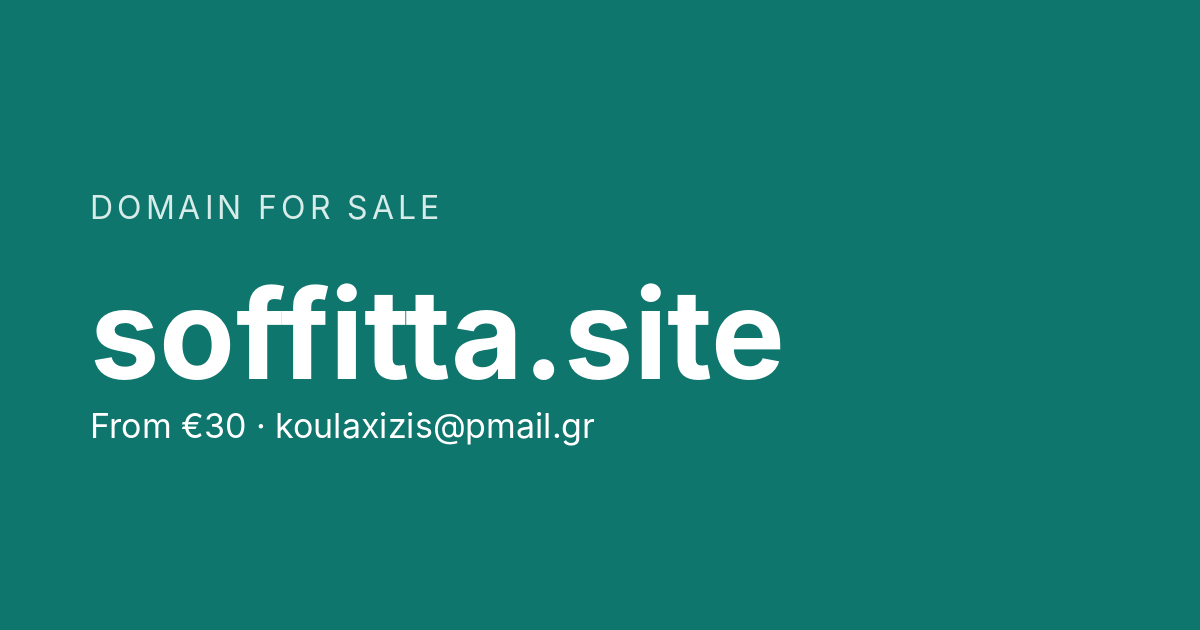
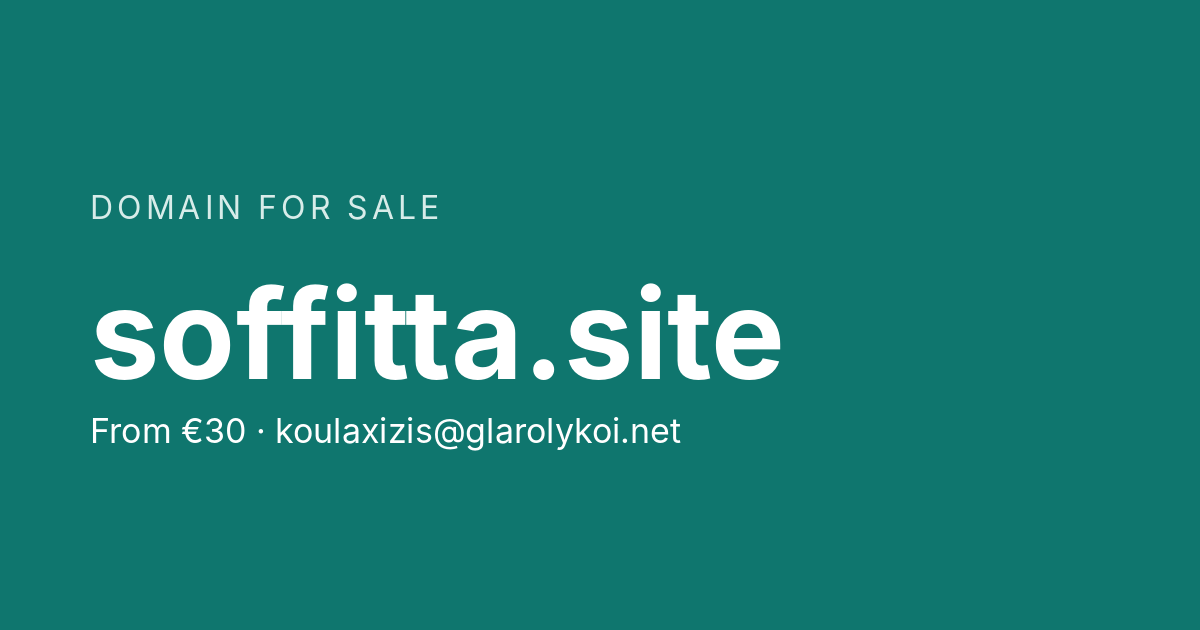
Change sale contact email to koulaxizis@glarolykoi.net
Updates the page, JSON-LD, meta descriptions, llms.txt, README and the
Open Graph image.

Claude-Session: https://claude.ai/code/session_01AxSeLTKH5xeV9SgQuvXc4s

Changed region(s): [[0.0617, 0.6333, 0.5858, 0.7238]]

diff --git a/index.html b/index.html
@@ -4,7 +4,7 @@
 <meta charset="UTF-8">
 <meta name="viewport" content="width=device-width, initial-scale=1.0">
 <title>soffitta.site is for sale | Premium .site domain</title>
-<meta name="description" content="The domain name soffitta.site is for sale. Short, brandable and memorable: ideal for a creative studio, small apps, design or home and vintage projects. Price from €30. Contact koulaxizis@pmail.gr.">
+<meta name="description" content="The domain name soffitta.site is for sale. Short, brandable and memorable: ideal for a creative studio, small apps, design or home and vintage projects. Price from €30. Contact koulaxizis@glarolykoi.net.">
 <meta name="keywords" content="soffitta.site, domain for sale, buy domain, .site domain, brandable domain, creative domain, apps domain, studio domain, Italian domain, domain πωλείται">
 <meta name="robots" content="index, follow, max-image-preview:large">
 <meta name="author" content="Christos Koulaxizis">
@@ -19,7 +19,7 @@
 <meta property="og:type" content="website">
 <meta property="og:site_name" content="soffitta.site">
 <meta property="og:title" content="soffitta.site is for sale">
-<meta property="og:description" content="Short, brandable .site domain for a creative studio, small apps or design projects. From €30. Contact: koulaxizis@pmail.gr">
+<meta property="og:description" content="Short, brandable .site domain for a creative studio, small apps or design projects. From €30. Contact: koulaxizis@glarolykoi.net">
 <meta property="og:url" content="https://soffitta.site/">
 <meta property="og:image" content="https://soffitta.site/og-image.png">
 <meta property="og:image:width" content="1200">
@@ -69,11 +69,11 @@
       "@type": "Person",
       "@id": "https://soffitta.site/#seller",
       "name": "Christos Koulaxizis",
-      "email": "mailto:koulaxizis@pmail.gr",
+      "email": "mailto:koulaxizis@glarolykoi.net",
       "contactPoint": {
         "@type": "ContactPoint",
         "contactType": "sales",
-        "email": "koulaxizis@pmail.gr",
+        "email": "koulaxizis@glarolykoi.net",
         "availableLanguage": ["English", "Greek"]
       }
     },
@@ -91,7 +91,7 @@
         {
           "@type": "Question",
           "name": "Is soffitta.site for sale?",
-          "acceptedAnswer": { "@type": "Answer", "text": "Yes. The domain soffitta.site is for sale, with prices starting from 30 EUR. Email koulaxizis@pmail.gr to buy it." }
+          "acceptedAnswer": { "@type": "Answer", "text": "Yes. The domain soffitta.site is for sale, with prices starting from 30 EUR. Email koulaxizis@glarolykoi.net to buy it." }
         },
         {
           "@type": "Question",
@@ -214,11 +214,11 @@
   </p>
 
   <p class="price"><span lang="en">Price from</span><span lang="el">Τιμή από</span> <strong>€30</strong></p>
-  <a class="cta" lang="en" href="mailto:koulaxizis@pmail.gr?subject=Buying%20soffitta.site">Buy this domain</a>
-  <a class="cta" lang="el" href="mailto:koulaxizis@pmail.gr?subject=%CE%A0%CF%81%CE%BF%CF%83%CF%86%CE%BF%CF%81%CE%AC%20%CE%B3%CE%B9%CE%B1%20%CF%84%CE%BF%20soffitta.site">Αγοράστε το domain</a>
+  <a class="cta" lang="en" href="mailto:koulaxizis@glarolykoi.net?subject=Buying%20soffitta.site">Buy this domain</a>
+  <a class="cta" lang="el" href="mailto:koulaxizis@glarolykoi.net?subject=%CE%A0%CF%81%CE%BF%CF%83%CF%86%CE%BF%CF%81%CE%AC%20%CE%B3%CE%B9%CE%B1%20%CF%84%CE%BF%20soffitta.site">Αγοράστε το domain</a>
   <p class="email">
     <span lang="en">Contact:</span><span lang="el">Επικοινωνία:</span>
-    <a href="mailto:koulaxizis@pmail.gr">koulaxizis@pmail.gr</a>
+    <a href="mailto:koulaxizis@glarolykoi.net">koulaxizis@glarolykoi.net</a>
   </p>
 
   <section aria-labelledby="why">
@@ -245,13 +245,13 @@
     <h2 id="faq"><span lang="en">Frequently asked questions</span><span lang="el">Συχνές ερωτήσεις</span></h2>
     <div class="card">
       <div lang="en">
-        <details><summary>How do I buy this domain?</summary><p>Email <a href="mailto:koulaxizis@pmail.gr">koulaxizis@pmail.gr</a>. You will receive a reply, usually within 24 hours.</p></details>
+        <details><summary>How do I buy this domain?</summary><p>Email <a href="mailto:koulaxizis@glarolykoi.net">koulaxizis@glarolykoi.net</a>. You will receive a reply, usually within 24 hours.</p></details>
         <details><summary>How does the transfer work?</summary><p>Once we agree on a price, payment can go through a trusted escrow service and the domain is transferred to your registrar account, usually within a few days.</p></details>
         <details><summary>How much does it cost?</summary><p>Prices start from €30. Higher offers are welcome.</p></details>
         <details><summary>What exactly is for sale?</summary><p>Only the domain name soffitta.site. No website, content, code or other assets are included.</p></details>
       </div>
       <div lang="el">
-        <details><summary>Πώς μπορώ να αγοράσω το domain;</summary><p>Στείλτε email στο <a href="mailto:koulaxizis@pmail.gr">koulaxizis@pmail.gr</a>. Θα λάβετε απάντηση συνήθως μέσα σε 24 ώρες.</p></details>
+        <details><summary>Πώς μπορώ να αγοράσω το domain;</summary><p>Στείλτε email στο <a href="mailto:koulaxizis@glarolykoi.net">koulaxizis@glarolykoi.net</a>. Θα λάβετε απάντηση συνήθως μέσα σε 24 ώρες.</p></details>
         <details><summary>Πώς γίνεται η μεταφορά;</summary><p>Μόλις συμφωνήσουμε στην τιμή, η πληρωμή μπορεί να γίνει μέσω αξιόπιστης υπηρεσίας escrow και το domain μεταφέρεται στον λογαριασμό σας, συνήθως μέσα σε λίγες ημέρες.</p></details>
         <details><summary>Πόσο κοστίζει;</summary><p>Η τιμή ξεκινά από €30. Υψηλότερες προσφορές είναι ευπρόσδεκτες.</p></details>
         <details><summary>Τι ακριβώς πωλείται;</summary><p>Μόνο το όνομα τομέα soffitta.site. Δεν περιλαμβάνεται ιστοσελίδα, περιεχόμενο, κώδικας ή άλλο υλικό.</p></details>
@@ -269,7 +269,7 @@
 </main>
 
 <footer>
-  <p>&copy; 2026 soffitta.site · <a href="mailto:koulaxizis@pmail.gr" style="color:inherit">koulaxizis@pmail.gr</a></p>
+  <p>&copy; 2026 soffitta.site · <a href="mailto:koulaxizis@glarolykoi.net" style="color:inherit">koulaxizis@glarolykoi.net</a></p>
 </footer>
 
 <script>
@@ -279,11 +279,11 @@
   var meta = {
     en: {
       title: 'soffitta.site is for sale | Premium .site domain',
-      desc: 'The domain name soffitta.site is for sale. Short, brandable and memorable: ideal for a creative studio, small apps, design or home and vintage projects. Price from €30. Contact koulaxizis@pmail.gr.'
+      desc: 'The domain name soffitta.site is for sale. Short, brandable and memorable: ideal for a creative studio, small apps, design or home and vintage projects. Price from €30. Contact koulaxizis@glarolykoi.net.'
     },
     el: {
       title: 'Το soffitta.site πωλείται | Premium domain .site',
-      desc: 'Το όνομα τομέα soffitta.site πωλείται. Σύντομο και εύκολο στη μνήμη, ιδανικό για δημιουργικό στούντιο, μικρές εφαρμογές και design. Τιμή από €30. Επικοινωνία: koulaxizis@pmail.gr'
+      desc: 'Το όνομα τομέα soffitta.site πωλείται. Σύντομο και εύκολο στη μνήμη, ιδανικό για δημιουργικό στούντιο, μικρές εφαρμογές και design. Τιμή από €30. Επικοινωνία: koulaxizis@glarolykoi.net'
     }
   };
   function apply(lang) {

diff --git a/README.md b/README.md
@@ -2,4 +2,4 @@
 
 Static "domain for sale" landing page for soffitta.site (English / Greek), served by GitHub Pages.
 
-Contact: koulaxizis@pmail.gr
+Contact: koulaxizis@glarolykoi.net
